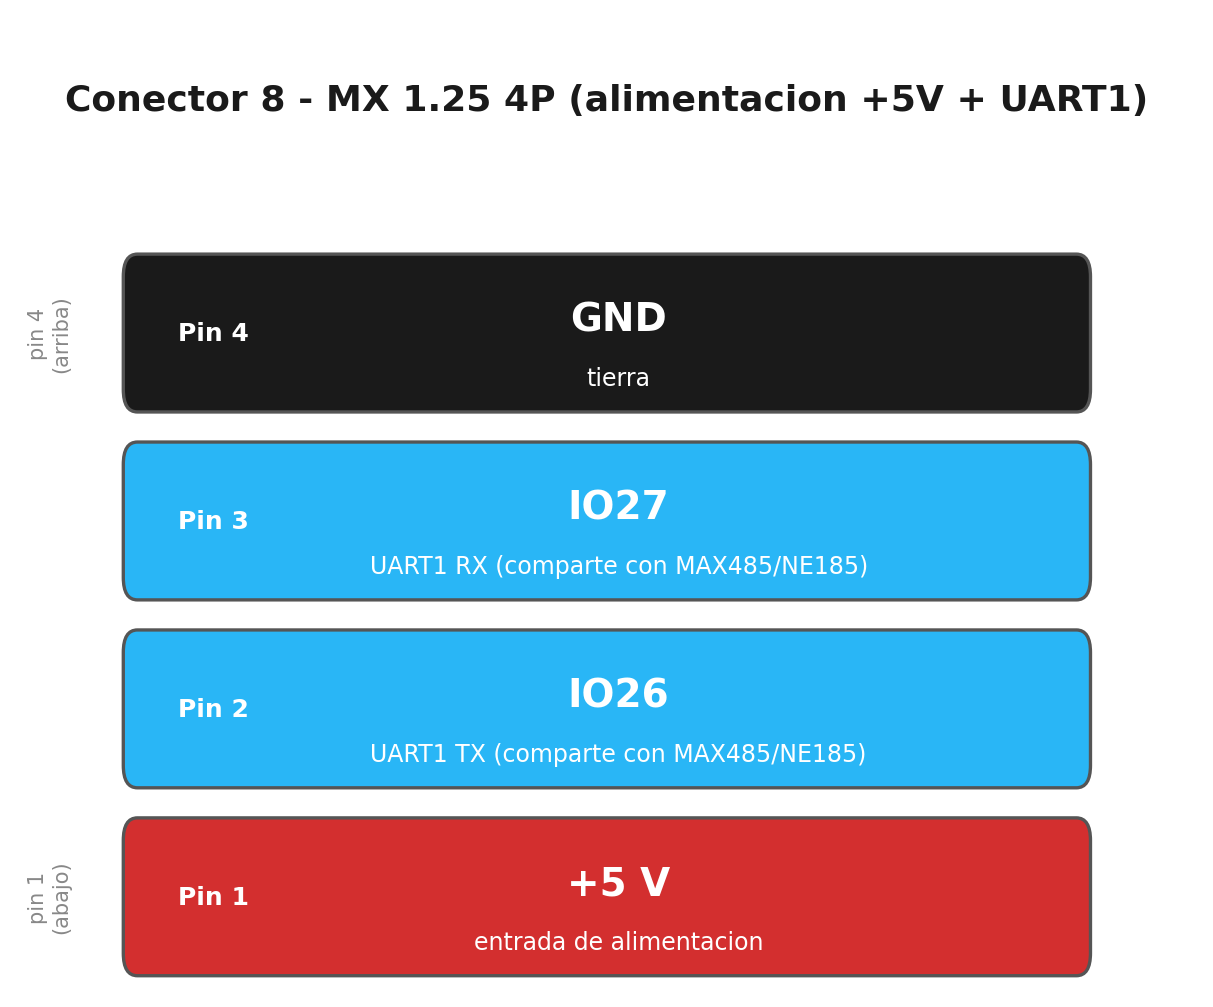
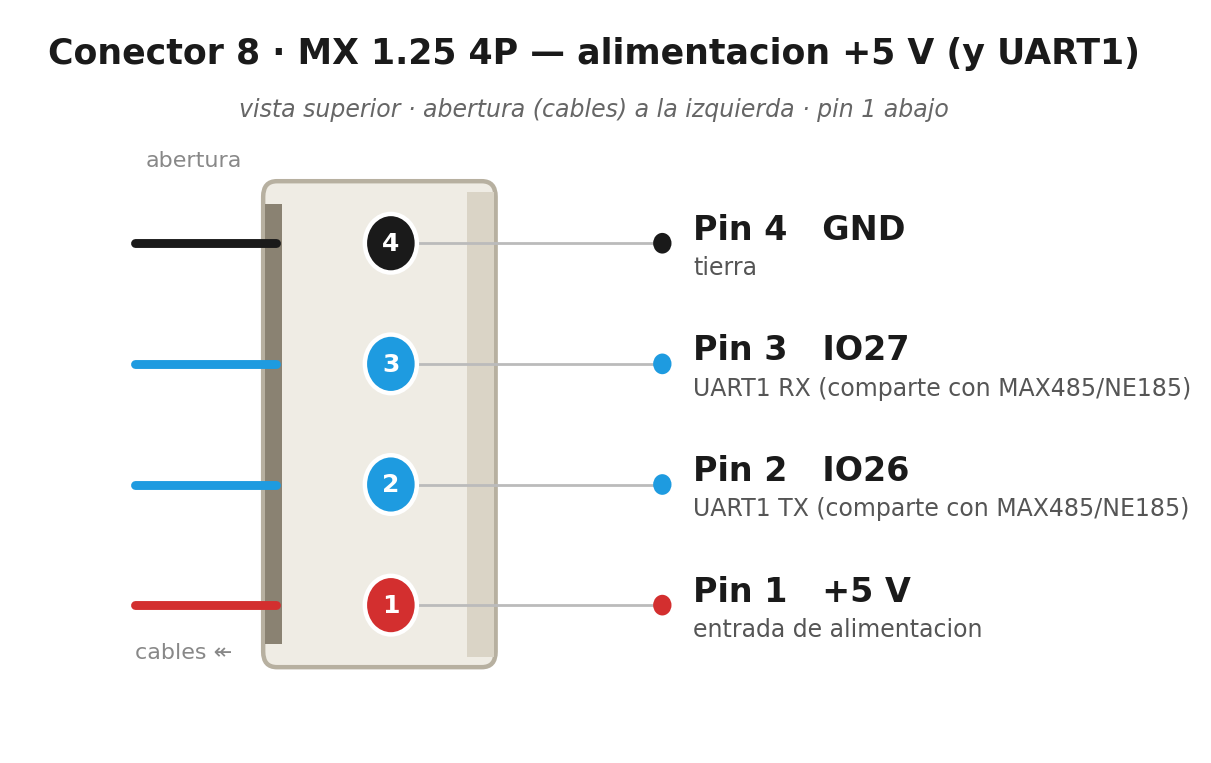
docs(pinout): redibujar conectores 8 y 11/J5 como MX 1.25 4P real
Dibujo del conector con abertura/cables a la izquierda, pines en columna
(pin 1 abajo) y etiquetas a la derecha, en vez de las barras abstractas.

diff --git a/docs/pinout_guition_jc1060p470c_i.html b/docs/pinout_guition_jc1060p470c_i.html
@@ -387,13 +387,13 @@ programación / consola</strong> — por aquí se flashea y se lee el log (<code
 <p class="small">Orden real leído en la serigrafía de la placa, de abajo (pin 1) a arriba (pin 4).
 Para alimentar: <strong>+5&nbsp;V al pin 1</strong> y <strong>GND al pin 4</strong>. Los pines
 IO26/IO27 son la UART1 (los mismos que atacan el MAX485 del NE185; normalmente se dejan sin conectar).</p>
-<img src="conector8_alim.png" style="width:47%; max-width:440px; display:block; margin:6px auto;" alt="Pinout del conector 8: 5V, IO26, IO27, GND">
+<img src="conector8_alim.png" style="width:64%; max-width:560px; display:block; margin:6px auto;" alt="Pinout del conector 8: 5V, IO26, IO27, GND">
 
 <h3>Conector 11 / J5 — RS-485 al NE185</h3>
 <p class="small">Orden real leído en la serigrafía, de abajo (pin 1) a arriba (pin 4). Cablear los
 4 hilos del NE185: <strong>+5&nbsp;V (pin 1)</strong>, <strong>A (pin 2)</strong>,
 <strong>B (pin 3)</strong>, <strong>GND (pin 4)</strong>.</p>
-<img src="conector11_j5_ne185.png" style="width:47%; max-width:440px; display:block; margin:6px auto;" alt="Pinout del conector 11 J5: 5V, A, B, GND">
+<img src="conector11_j5_ne185.png" style="width:64%; max-width:560px; display:block; margin:6px auto;" alt="Pinout del conector 11 J5: 5V, A, B, GND">
 
 </body>
 </html>

diff --git a/scripts/gen_conectores_alim_ne185.py b/scripts/gen_conectores_alim_ne185.py
@@ -1,59 +1,86 @@
 #!/usr/bin/env python3
 """Diagramas de los conectores fisicos de alimentacion / NE185 de la placa
-Guition JC1060P470C_I, tal como estan serigrafiados (orden leido en la placa,
-de abajo -> arriba = pin 1 -> pin 4).
+Guition JC1060P470C_I.
+
+Dibuja el conector MX 1.25 4P tal como esta montado en la placa:
+  - vista superior, ABERTURA (salida de cables) hacia la IZQUIERDA
+  - los 4 pines en columna, orden real leido en la serigrafia:
+    pin 1 = abajo ... pin 4 = arriba
+  - etiqueta de cada pin a la DERECHA
 
 Genera dos PNG en docs/:
   - conector8_alim.png      : Conector 8  -> 5V, IO26, IO27, GND (alim + UART1)
   - conector11_j5_ne185.png : Conector 11 -> 5V, A, B, GND      (J5 RS-485 al NE185)
-
-Estilo visual coherente con docs/cn2_pinout.png (cajas redondeadas de colores).
 """
 from pathlib import Path
 import matplotlib
 matplotlib.use("Agg")
 import matplotlib.pyplot as plt
-from matplotlib.patches import FancyBboxPatch
+from matplotlib.patches import FancyBboxPatch, Rectangle, Circle
 
 DOCS = Path(__file__).resolve().parent.parent / "docs"
 
 C_5V  = "#D32F2F"   # rojo  -> +5V
-C_BUS = "#29B6F6"   # azul  -> datos (A/B o UART1)
+C_BUS = "#1E9BE0"   # azul  -> datos (A/B o UART1)
 C_GND = "#1A1A1A"   # negro -> GND
-TXT_ON_DARK = "white"
+HOUSING = "#EFECE4"  # blanco hueso del conector MX 1.25
+HOUSE_EDGE = "#B7B0A0"
 
 
 def draw(pins, title, outpath):
-    """pins: lista pin1..pinN de abajo->arriba, cada (numero, nombre, sub, color)."""
+    """pins: lista pin1..pin4 de abajo->arriba, cada (numero, nombre, sub, color)."""
     n = len(pins)
-    fig, ax = plt.subplots(figsize=(6.4, 0.95 * n + 1.15))
-    ax.set_xlim(0, 10)
-    ax.set_ylim(0, n + 1.15)
+    fig, ax = plt.subplots(figsize=(7.4, 4.7))
+    ax.set_xlim(0, 15)
+    ax.set_ylim(0, 8.4)
     ax.axis("off")
 
-    ax.text(5, n + 0.72, title, ha="center", va="center",
-            fontsize=13, fontweight="bold", color="#1A1A1A")
-    ax.text(0.25, (n - 1) + 0.48, "pin 4\n(arriba)", ha="center", va="center",
-            fontsize=7.5, color="#888", rotation=90)
+    ax.text(7.5, 8.0, title, ha="center", va="center",
+            fontsize=12.5, fontweight="bold", color="#1A1A1A")
+    ax.text(7.5, 7.35, "vista superior · abertura (cables) a la izquierda · pin 1 abajo",
+            ha="center", va="center", fontsize=8.5, color="#666", style="italic")
 
-    # pin1 abajo (y=0) ... pinN arriba
-    for i, (num, name, sub, color) in enumerate(pins):
-        y = i
-        box = FancyBboxPatch((0.9, y + 0.08), 8.2, 0.80,
-                             boxstyle="round,pad=0.02,rounding_size=0.12",
-                             facecolor=color, edgecolor="#555", linewidth=1.2)
-        ax.add_patch(box)
-        ax.text(1.35, y + 0.48, f"Pin {num}", ha="left", va="center",
-                fontsize=9, fontweight="bold", color=TXT_ON_DARK)
-        ax.text(5.1, y + 0.55, name, ha="center", va="center",
-                fontsize=14, fontweight="bold", color=TXT_ON_DARK)
-        if sub:
-            ax.text(5.1, y + 0.24, sub, ha="center", va="center",
-                    fontsize=8.5, color=TXT_ON_DARK)
-    ax.text(0.25, 0.48, "pin 1\n(abajo)", ha="center", va="center",
-            fontsize=7.5, color="#888", rotation=90)
+    # --- cuerpo del conector (housing MX 1.25) ---
+    hx0, hx1 = 3.2, 6.2
+    hy0, hy1 = 0.9, 6.5
+    house = FancyBboxPatch((hx0, hy0), hx1 - hx0, hy1 - hy0,
+                           boxstyle="round,pad=0.02,rounding_size=0.18",
+                           facecolor=HOUSING, edgecolor=HOUSE_EDGE, linewidth=1.6)
+    ax.add_patch(house)
+    # pared trasera (derecha) mas marcada
+    ax.add_patch(Rectangle((hx1 - 0.35, hy0 + 0.1), 0.35, (hy1 - hy0) - 0.2,
+                           facecolor="#DAD4C6", edgecolor="none"))
+    # "boca" / abertura en la cara izquierda
+    ax.add_patch(Rectangle((hx0, hy0 + 0.25), 0.22, (hy1 - hy0) - 0.5,
+                           facecolor="#8A8272", edgecolor="none"))
+    ax.text(2.9, hy1 + 0.15, "abertura", ha="right", va="bottom",
+            fontsize=8, color="#888")
 
-    fig.tight_layout(pad=0.4)
+    # posiciones de los 4 pines en columna (pin1 abajo)
+    ys = [hy0 + (hy1 - hy0) * (i + 0.5) / n for i in range(n)]
+    pin_cx = (hx0 + hx1) / 2 + 0.15
+
+    for (num, name, sub, color), y in zip(pins, ys):
+        # cable saliendo a la IZQUIERDA (color de la senal)
+        ax.plot([hx0 - 1.7, hx0 + 0.15], [y, y], color=color, linewidth=3.2,
+                solid_capstyle="round", zorder=1)
+        # contacto/pin sobre el housing
+        ax.add_patch(Circle((pin_cx, y), 0.34, facecolor=color,
+                            edgecolor="white", linewidth=1.6, zorder=3))
+        ax.text(pin_cx, y, str(num), ha="center", va="center",
+                fontsize=9, fontweight="bold", color="white", zorder=4)
+        # linea guia a la etiqueta (derecha)
+        ax.plot([pin_cx + 0.34, 8.4], [y, y], color="#BBB", linewidth=1.0, zorder=1)
+        ax.add_patch(Circle((8.4, y), 0.12, facecolor=color, edgecolor="none", zorder=3))
+        # etiqueta
+        ax.text(8.8, y + 0.16, f"Pin {num}   {name}", ha="left", va="center",
+                fontsize=12, fontweight="bold", color="#1A1A1A")
+        ax.text(8.8, y - 0.28, sub, ha="left", va="center",
+                fontsize=8.5, color="#555")
+
+    ax.text(hx0 - 1.7, ys[0] - 0.55, "cables ↞", ha="left", va="center",
+            fontsize=8, color="#888")
+
     fig.savefig(outpath, dpi=200, bbox_inches="tight",
                 facecolor="white", edgecolor="none")
     plt.close(fig)
@@ -62,18 +89,18 @@ def draw(pins, title, outpath):
 
 # Conector 8 (abajo -> arriba): 5V, IO26, IO27, GND
 draw([
-    (1, "+5 V",  "entrada de alimentacion",           C_5V),
-    (2, "IO26",  "UART1 TX (comparte con MAX485/NE185)", C_BUS),
-    (3, "IO27",  "UART1 RX (comparte con MAX485/NE185)", C_BUS),
-    (4, "GND",   "tierra",                              C_GND),
-], "Conector 8 - MX 1.25 4P (alimentacion +5V + UART1)",
+    (1, "+5 V", "entrada de alimentacion",              C_5V),
+    (2, "IO26", "UART1 TX (comparte con MAX485/NE185)", C_BUS),
+    (3, "IO27", "UART1 RX (comparte con MAX485/NE185)", C_BUS),
+    (4, "GND",  "tierra",                               C_GND),
+], "Conector 8 · MX 1.25 4P — alimentacion +5 V (y UART1)",
    DOCS / "conector8_alim.png")
 
 # Conector 11 / J5 (abajo -> arriba): 5V, A, B, GND
 draw([
     (1, "+5 V", "alimentacion del bus",  C_5V),
-    (2, "A",    "RS-485 A  ->  NE185 A", C_BUS),
-    (3, "B",    "RS-485 B  ->  NE185 B", C_BUS),
+    (2, "A",    "RS-485 A  →  NE185 A",  C_BUS),
+    (3, "B",    "RS-485 B  →  NE185 B",  C_BUS),
     (4, "GND",  "masa comun del bus",    C_GND),
-], "Conector 11 / J5 - MX 1.25 4P (RS-485 al NE185)",
+], "Conector 11 / J5 · MX 1.25 4P — RS-485 al NE185",
    DOCS / "conector11_j5_ne185.png")